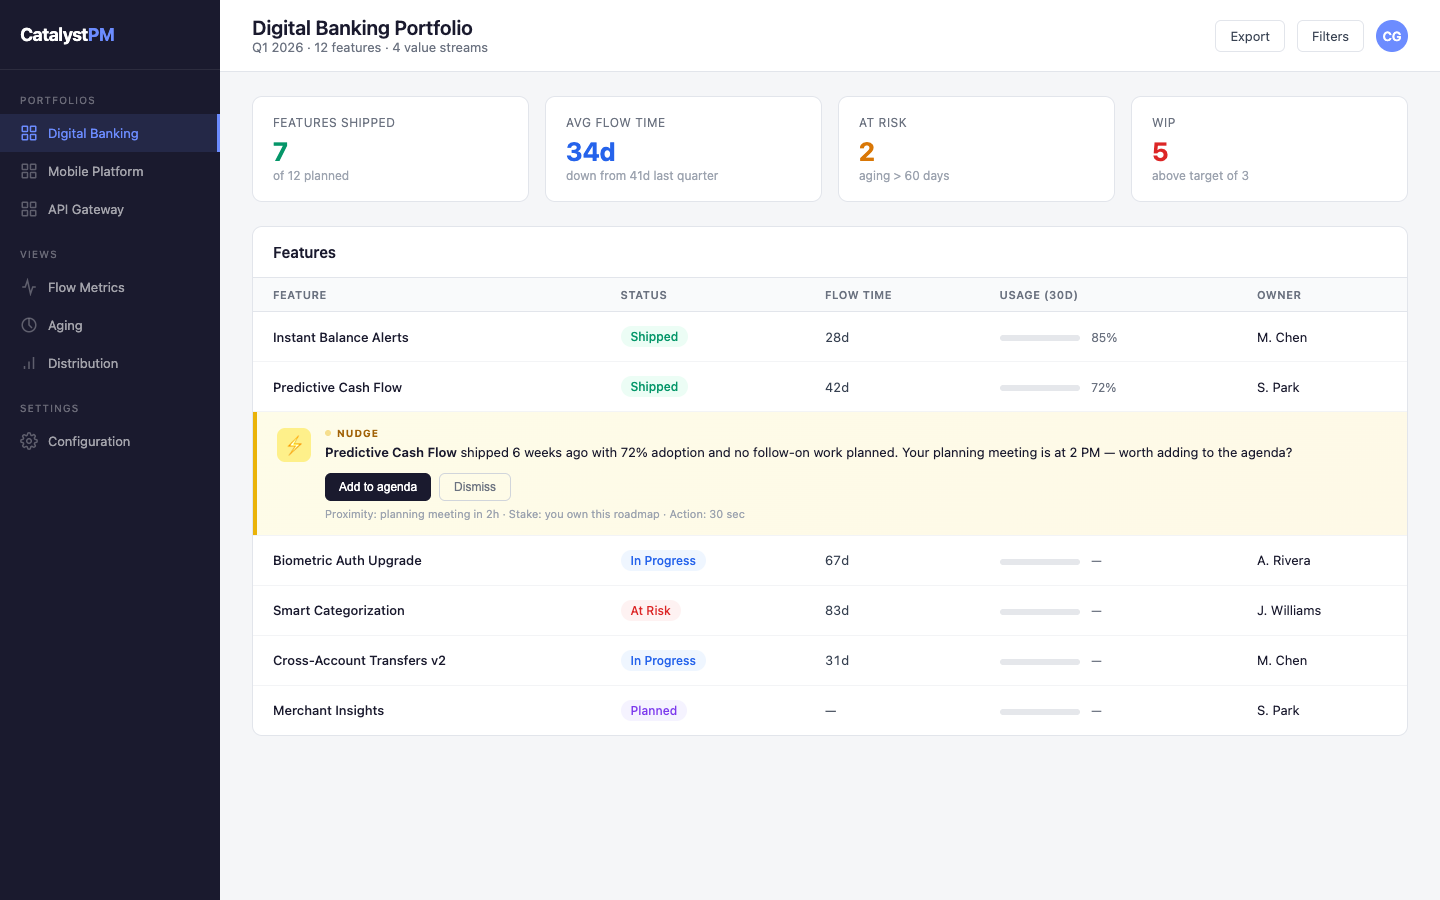
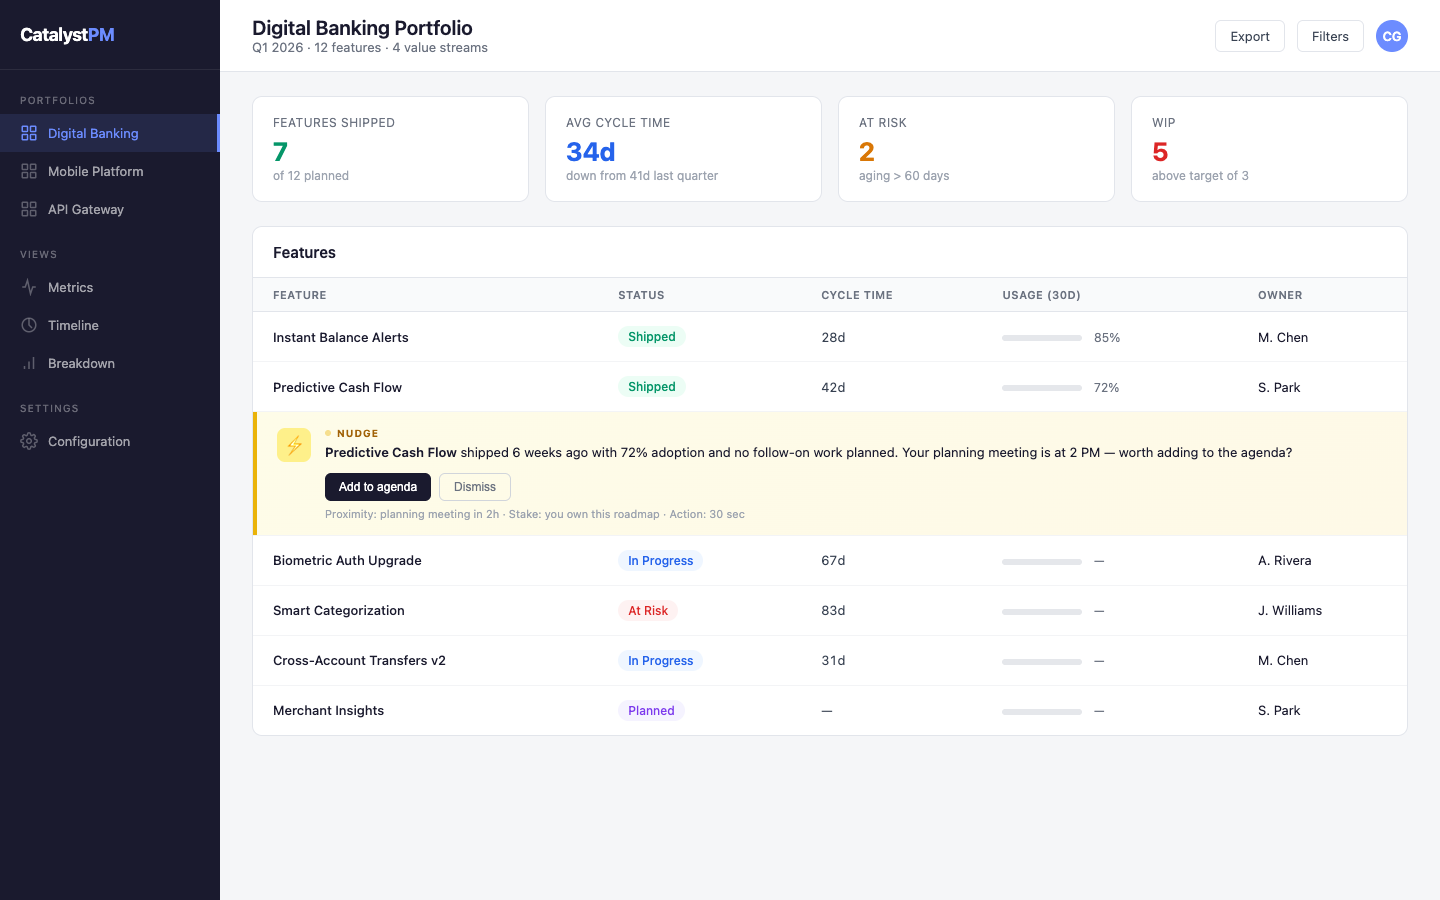
Remove Flow Metrics/Aging/Flow Time from prototypes
Replace with generic labels: Metrics, Timeline, Breakdown, Cycle Time.
No Planview-identifiable terminology remains in any screenshot.

diff --git a/public/nudge-prototype.html b/public/nudge-prototype.html
@@ -110,15 +110,15 @@
     <div class="sidebar-section">Views</div>
     <div class="sidebar-item">
       <svg class="sidebar-icon" viewBox="0 0 24 24" fill="none" stroke="currentColor" stroke-width="2"><path d="M3 12h4l3-9 4 18 3-9h4"/></svg>
-      Flow Metrics
+      Metrics
     </div>
     <div class="sidebar-item">
       <svg class="sidebar-icon" viewBox="0 0 24 24" fill="none" stroke="currentColor" stroke-width="2"><circle cx="12" cy="12" r="9"/><path d="M12 3v9l4 4"/></svg>
-      Aging
+      Timeline
     </div>
     <div class="sidebar-item">
       <svg class="sidebar-icon" viewBox="0 0 24 24" fill="none" stroke="currentColor" stroke-width="2"><path d="M12 20V10M18 20V4M6 20v-4"/></svg>
-      Distribution
+      Breakdown
     </div>
     <div class="sidebar-section">Settings</div>
     <div class="sidebar-item">
@@ -152,7 +152,7 @@
           <div class="summary-sub">of 12 planned</div>
         </div>
         <div class="summary-card">
-          <div class="summary-label">Avg Flow Time</div>
+          <div class="summary-label">Avg Cycle Time</div>
           <div class="summary-value blue">34d</div>
           <div class="summary-sub">down from 41d last quarter</div>
         </div>
@@ -178,7 +178,7 @@
             <tr>
               <th>Feature</th>
               <th>Status</th>
-              <th>Flow Time</th>
+              <th>Cycle Time</th>
               <th>Usage (30d)</th>
               <th>Owner</th>
             </tr>

diff --git a/public/chat-mockup.html b/public/chat-mockup.html
@@ -75,11 +75,11 @@
     <div class="sidebar-section">Views</div>
     <div class="sidebar-item">
       <span style="width:18px; text-align:center; opacity:0.5;">&#9670;</span>
-      Flow Metrics
+      Metrics
     </div>
     <div class="sidebar-item">
       <span style="width:18px; text-align:center; opacity:0.5;">&#9670;</span>
-      Aging
+      Timeline
     </div>
     <div class="sidebar-section">AI</div>
     <div class="sidebar-item active">
